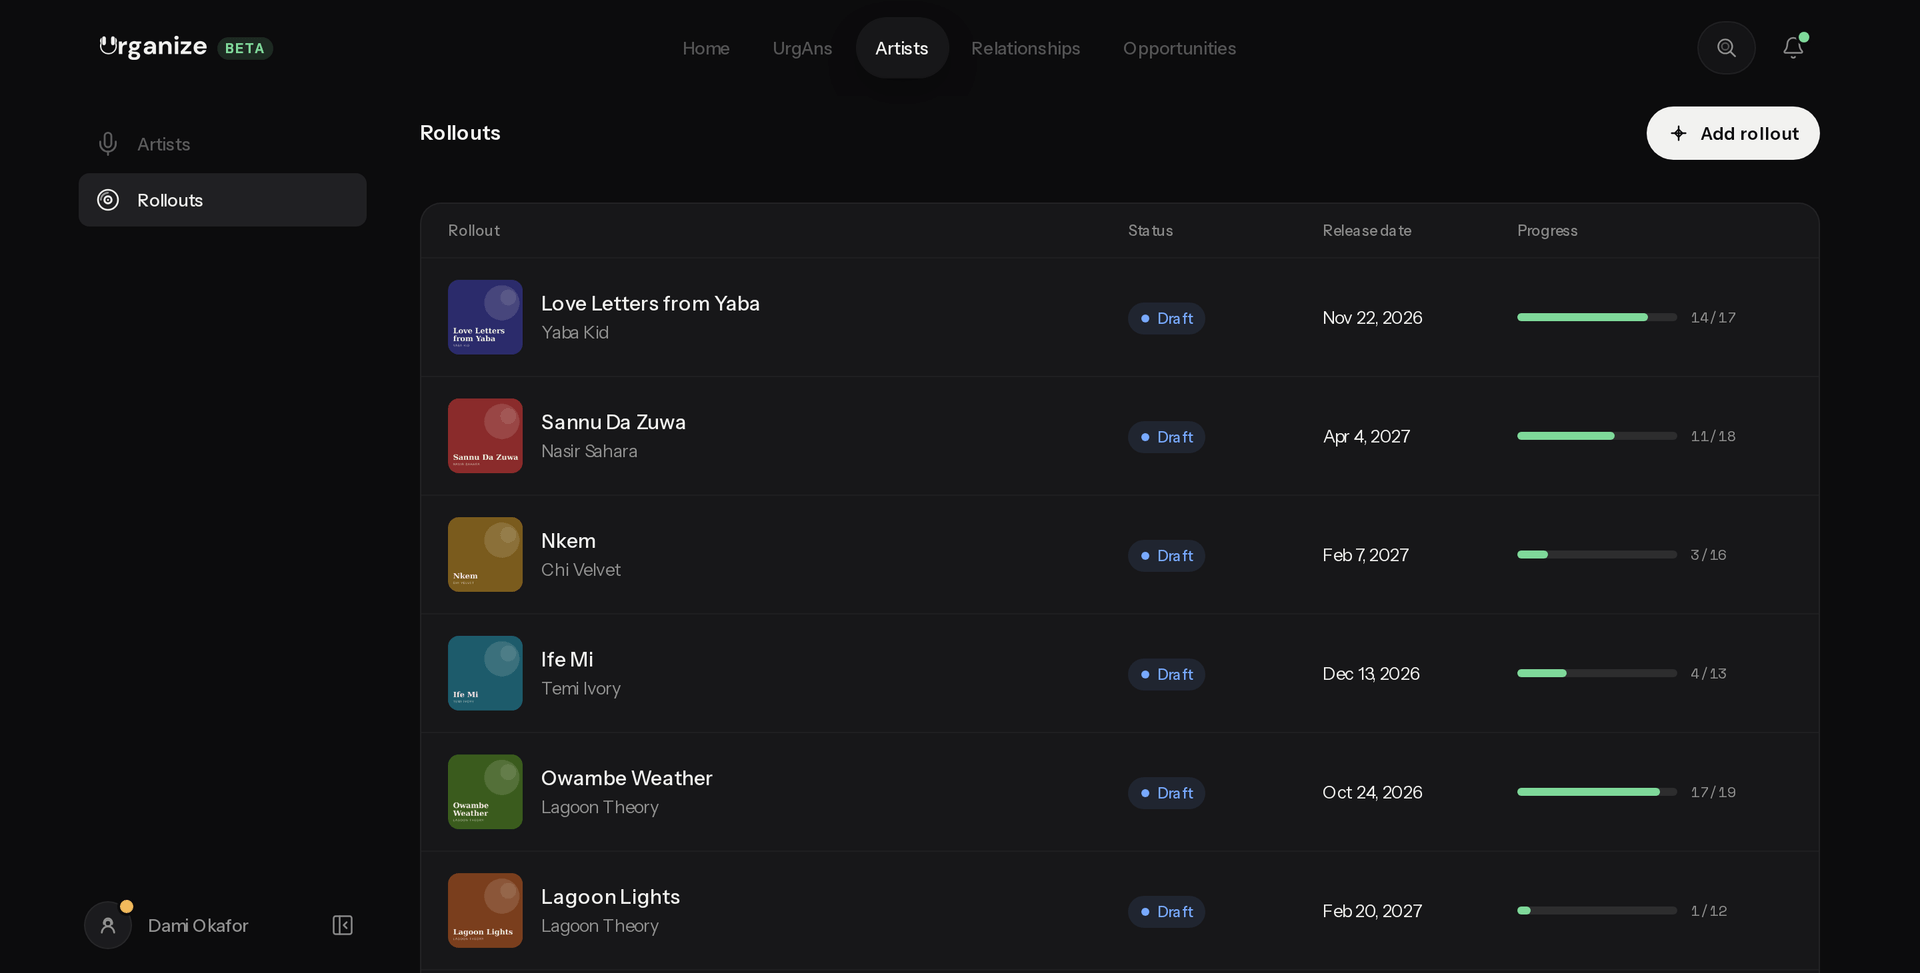
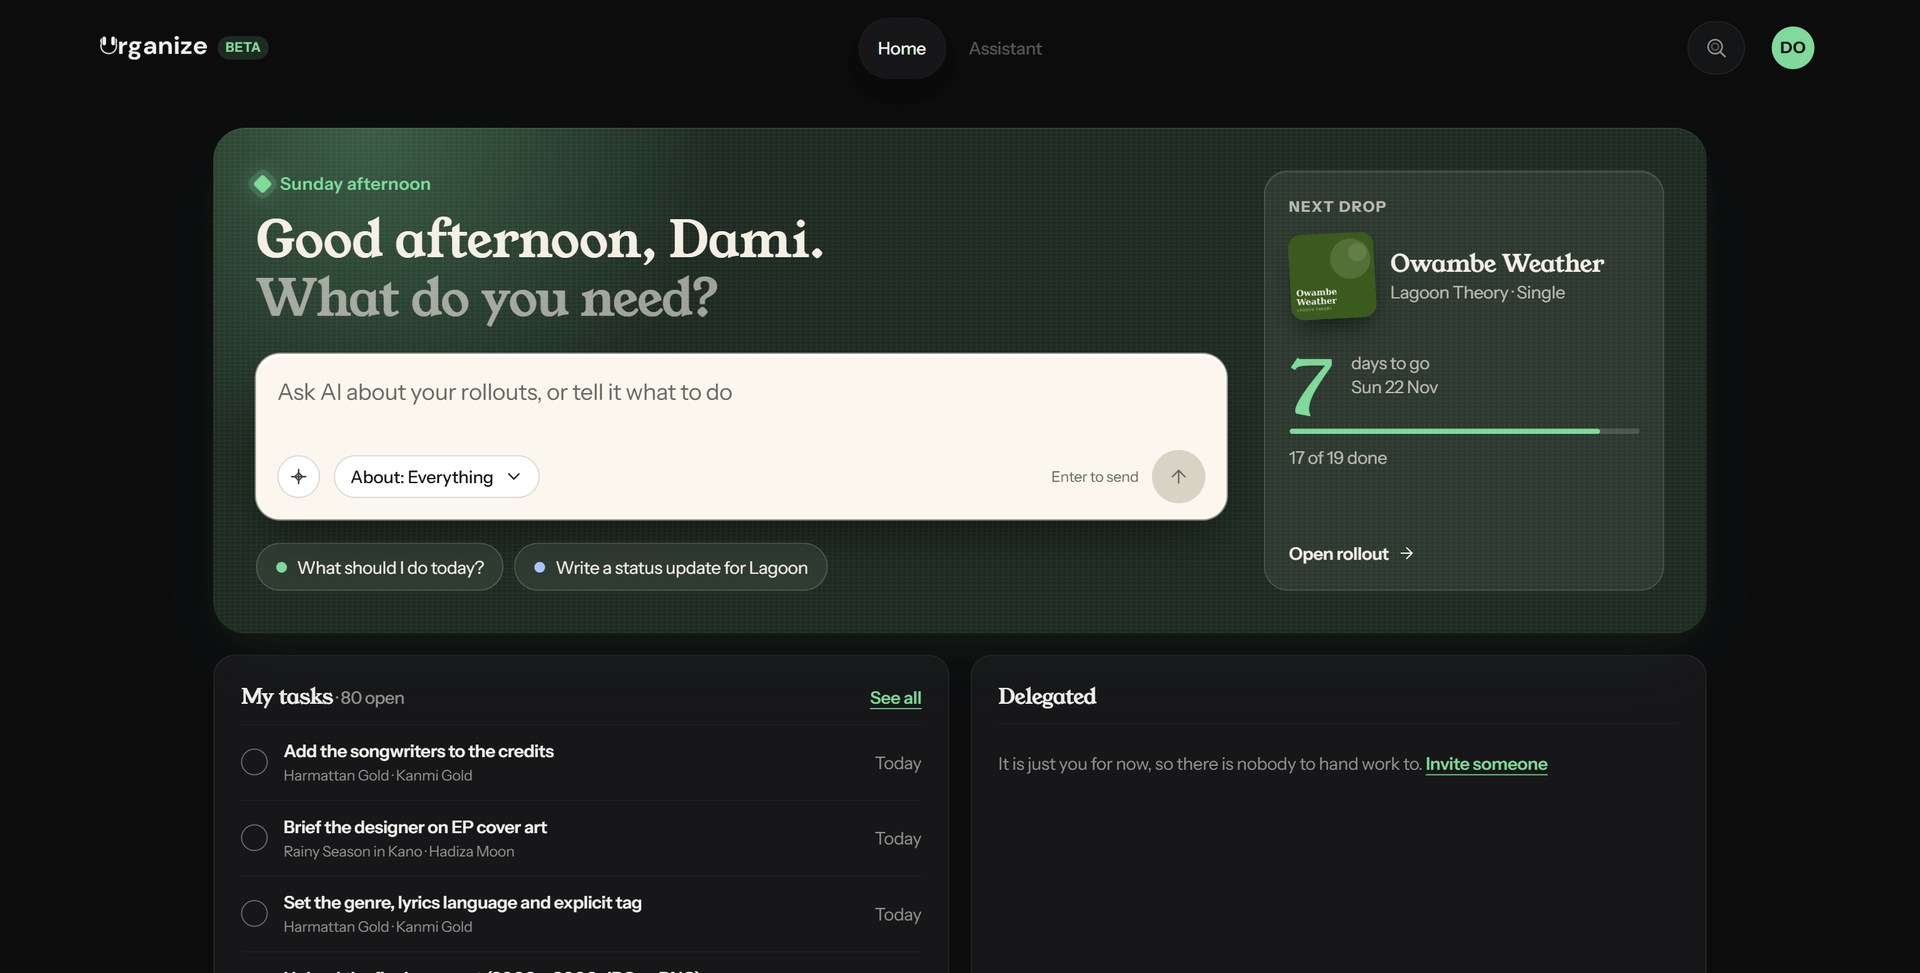
Retake the product screenshots on the new Home, with nothing late [deploy]
The shots script now refuses to seed any account but the demo one named
with --account, can sign in with a one-time link, moves demo rollouts to
future dates, waits for loading bars to clear and hides the terms strip,
the notification card and the streaming sheet before each picture.

Fixes #1299

diff --git a/apps/homepage/content/product-shots.ts b/apps/homepage/content/product-shots.ts
@@ -1,4 +1,4 @@
-// GENERATED by scripts/capture-product-shots.mjs on 2026-10-18.
+// GENERATED by scripts/capture-product-shots.mjs on 2026-11-15.
 // Do not edit by hand: re-run `pnpm --filter @urganize/homepage shots`.
 // Dimensions are read back from the written PNGs, so a component that spreads
 // an entry into ThemedProductShot can never disagree with the file it renders.
